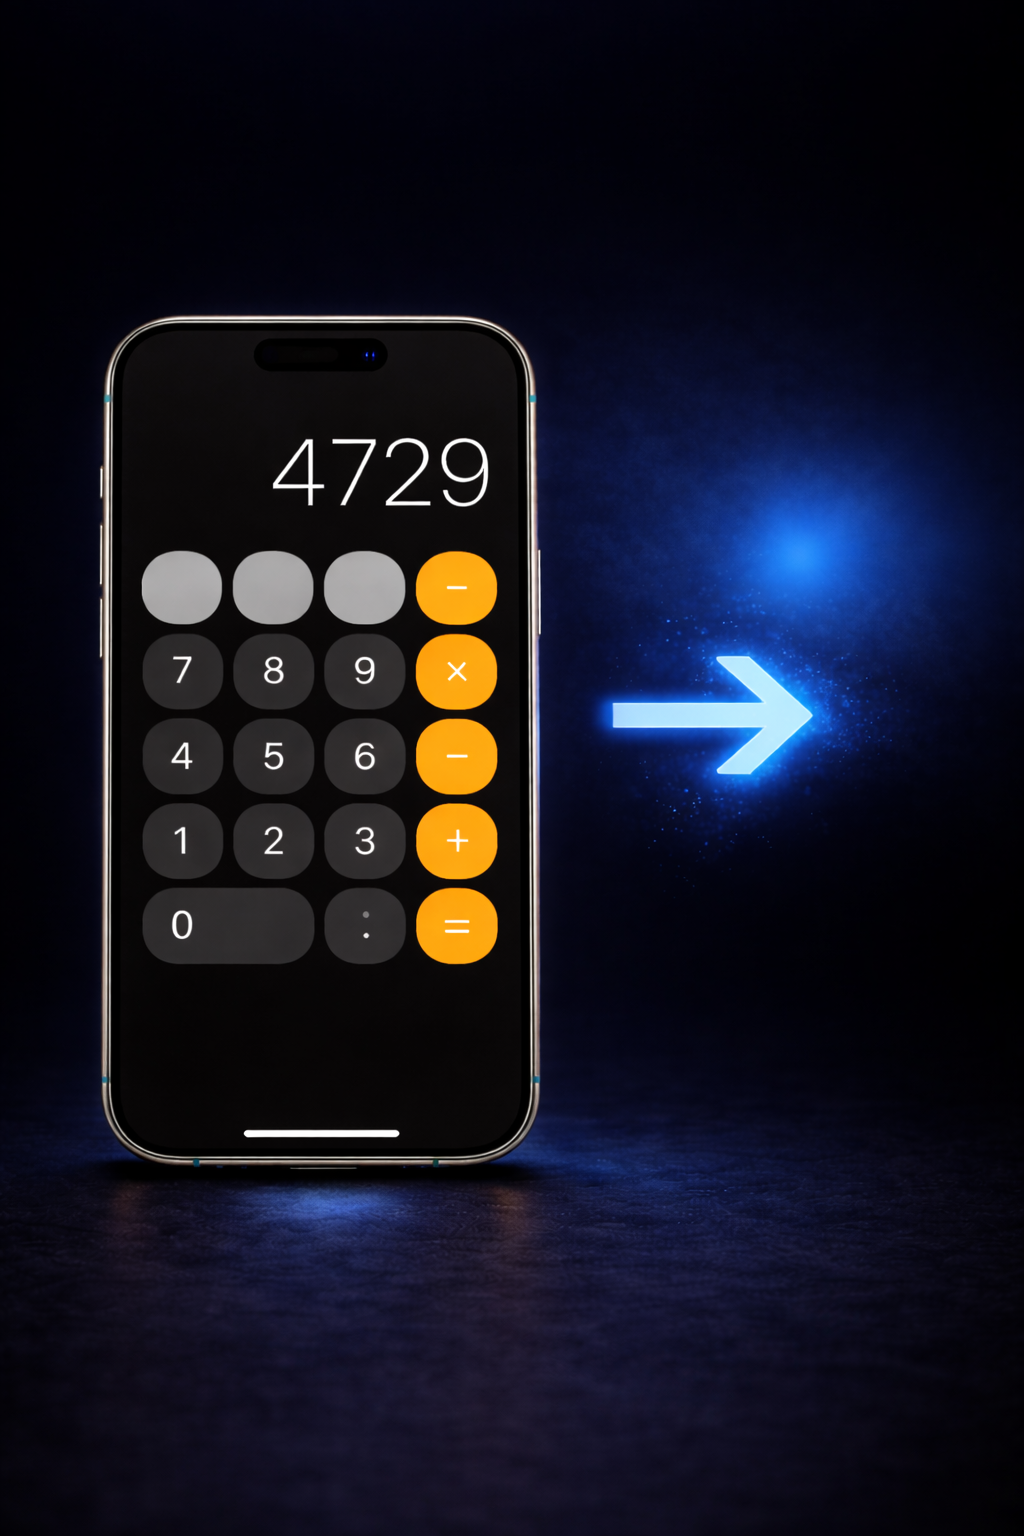
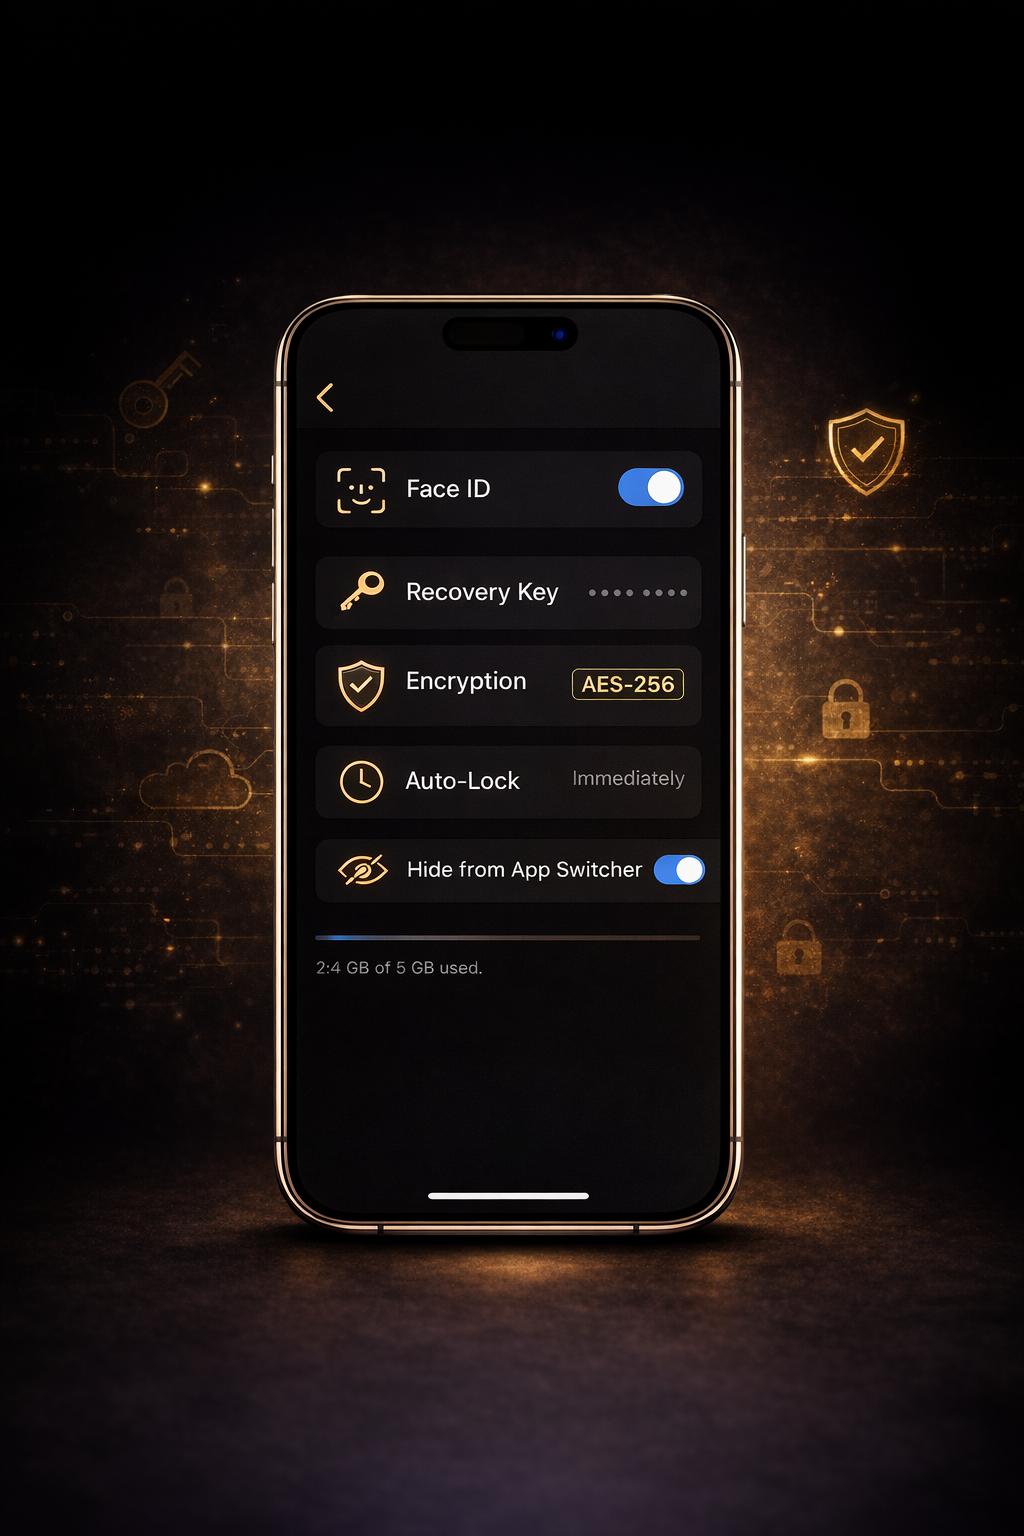
Swap Stash screenshot to security view, make privacy/terms links white

diff --git a/src/app/creative/page.tsx b/src/app/creative/page.tsx
@@ -230,7 +230,7 @@ function AppSection({
           <Link
             href={app.privacyUrl}
             className="hover:text-white transition-colors"
-            style={{ fontSize: "14px", color: "rgba(255,255,255,0.5)", textDecoration: "underline", textUnderlineOffset: "4px", textDecorationColor: "rgba(255,255,255,0.3)" }}
+            style={{ fontSize: "14px", color: "#fff", textDecoration: "underline", textUnderlineOffset: "4px", textDecorationColor: "rgba(255,255,255,0.6)" }}
           >
             Privacy
           </Link>
@@ -238,7 +238,7 @@ function AppSection({
             <Link
               href={app.termsUrl}
               className="hover:text-white transition-colors"
-              style={{ fontSize: "14px", color: "rgba(255,255,255,0.5)", textDecoration: "underline", textUnderlineOffset: "4px", textDecorationColor: "rgba(255,255,255,0.3)" }}
+              style={{ fontSize: "14px", color: "#fff", textDecoration: "underline", textUnderlineOffset: "4px", textDecorationColor: "rgba(255,255,255,0.6)" }}
             >
               Terms
             </Link>